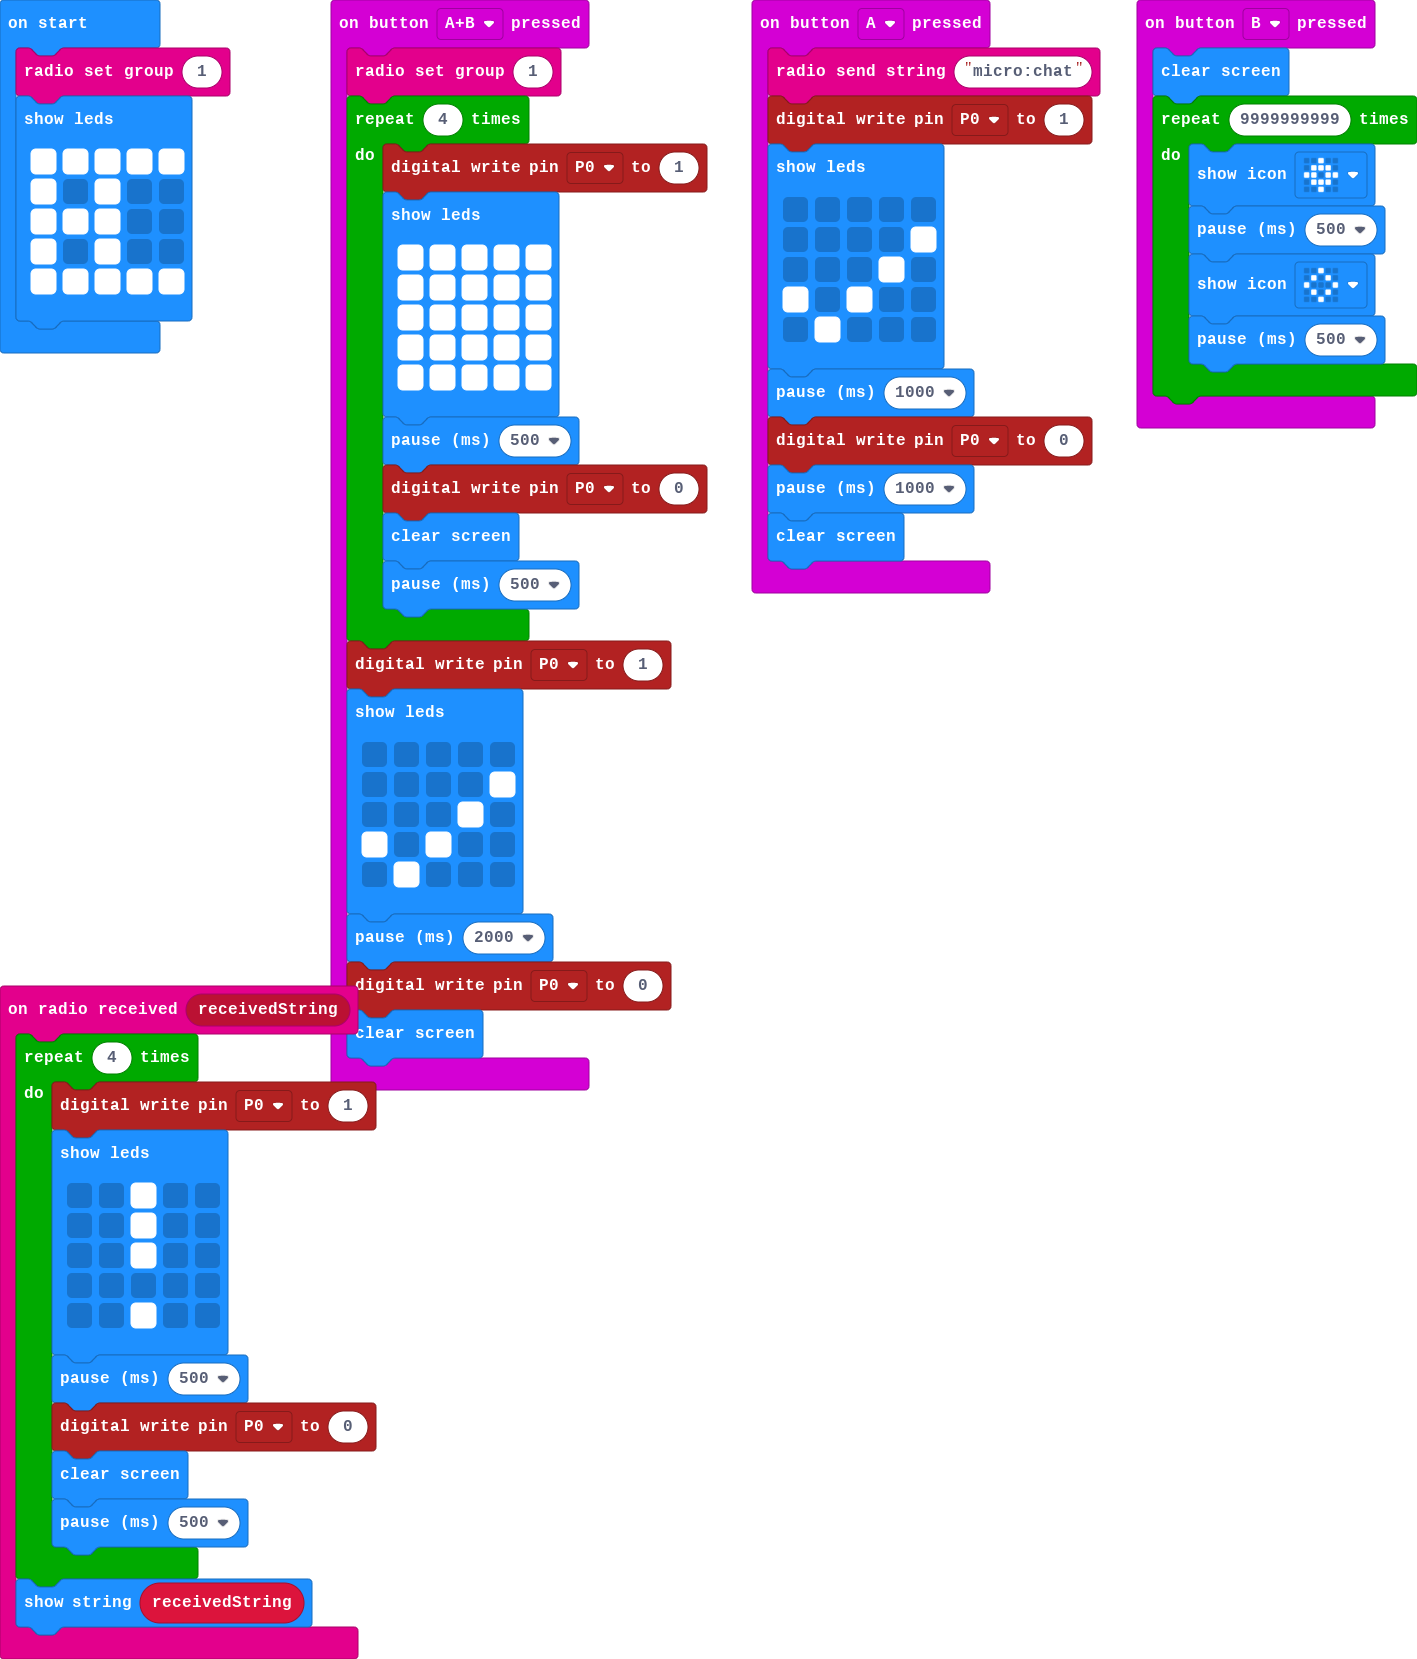
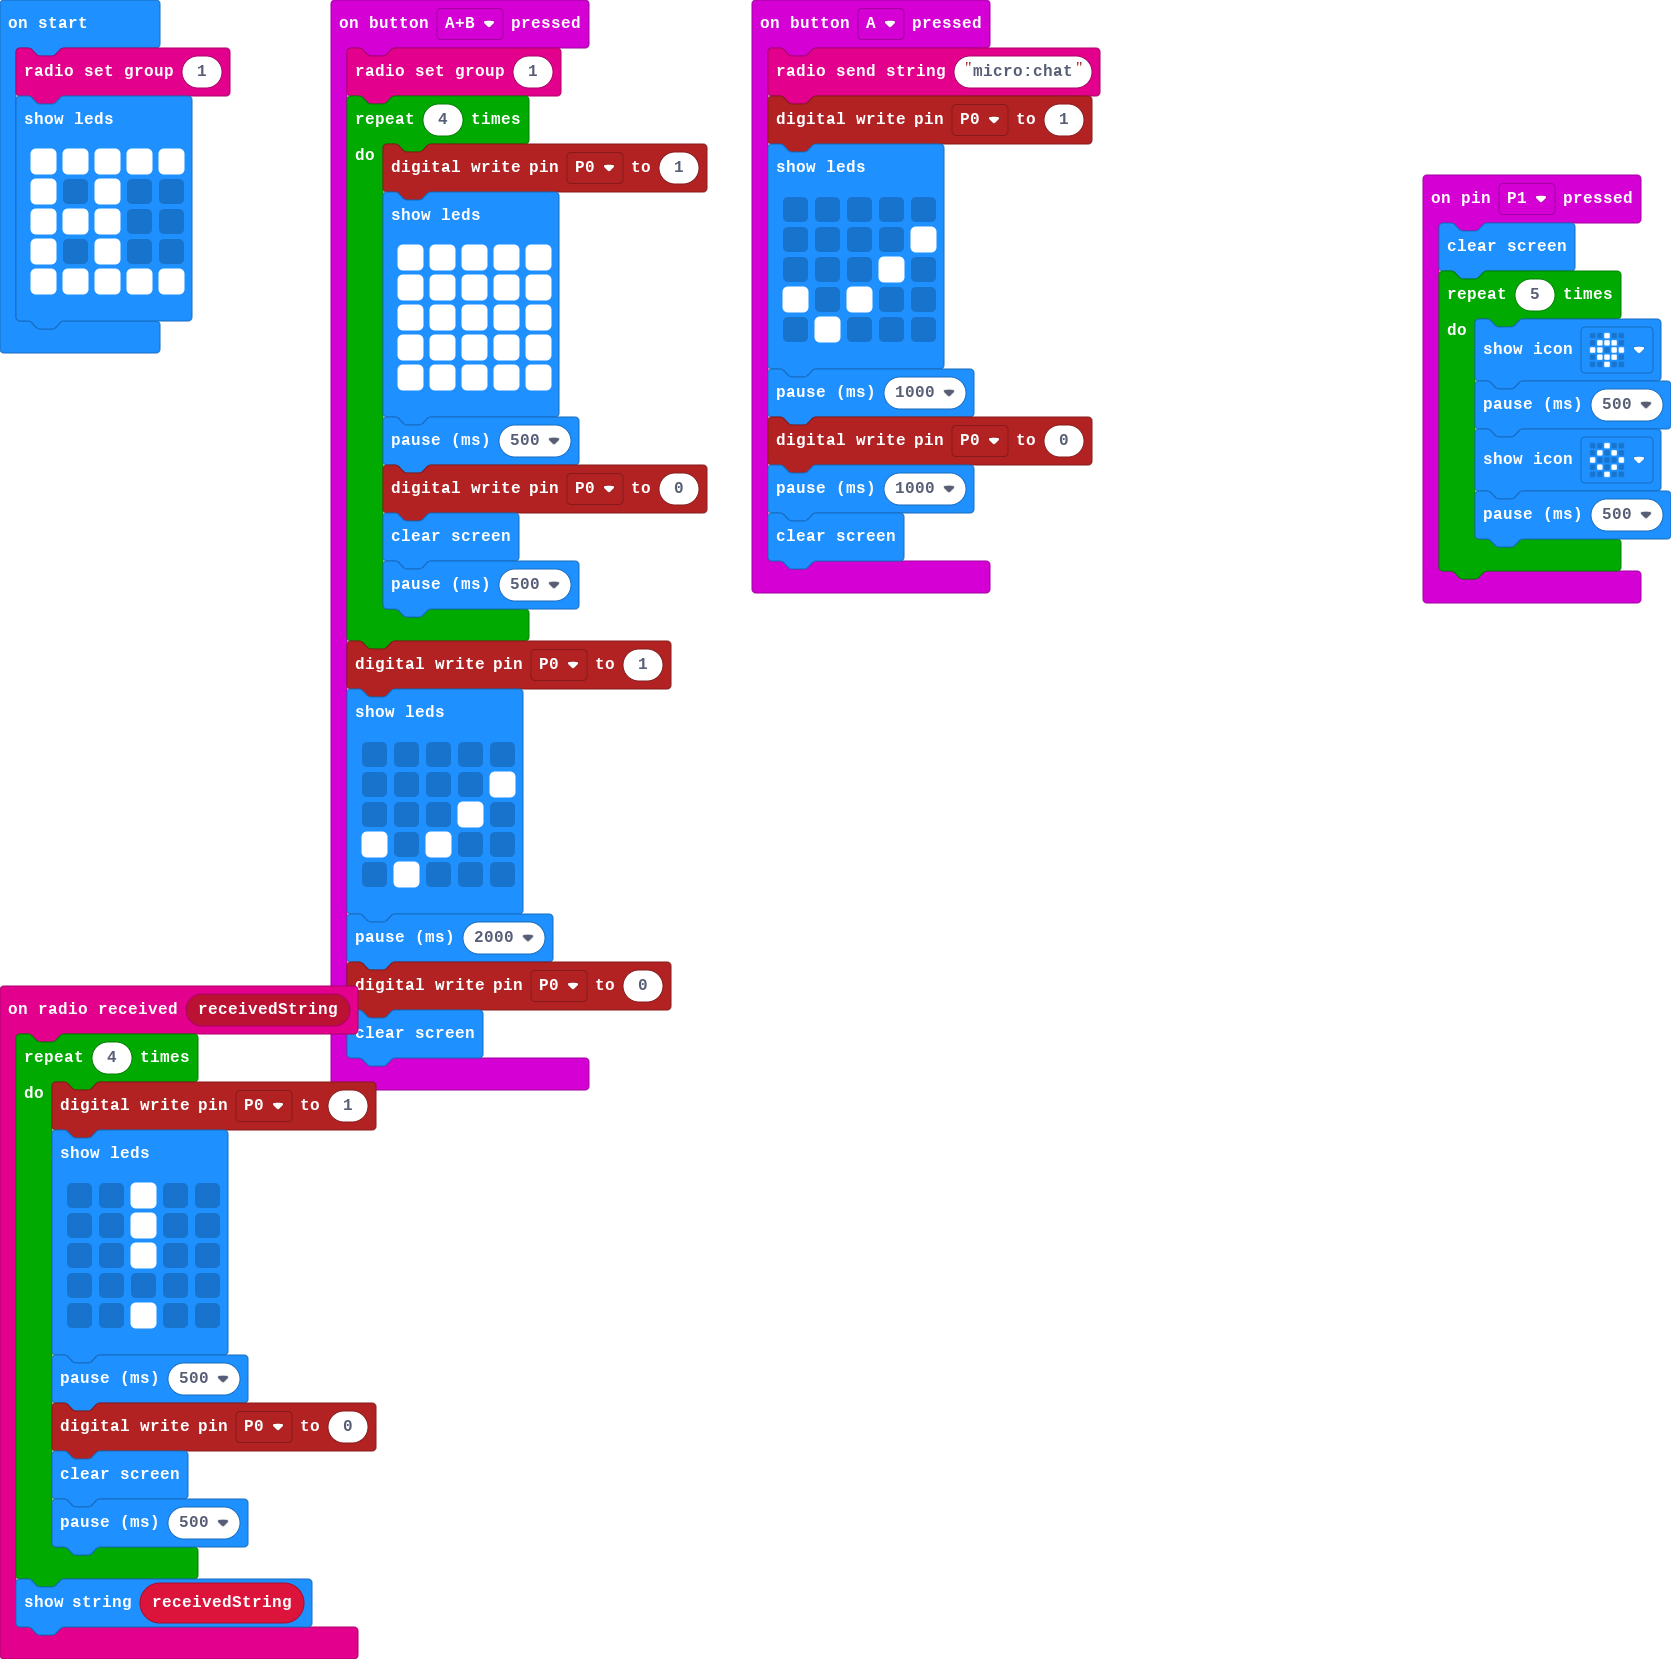
Update main.blocks, main.ts

Changed region(s): [[0.0, 0.0, 1.0, 1.0]]

diff --git a/main.ts b/main.ts
@@ -58,9 +58,9 @@ radio.onReceivedString(function (receivedString) {
     }
     basic.showString(receivedString)
 })
-input.onButtonPressed(Button.B, function () {
+input.onPinPressed(TouchPin.P1, function () {
     basic.clearScreen()
-    for (let index = 0; index < 9999999999; index++) {
+    for (let index = 0; index < 5; index++) {
         basic.showIcon(IconNames.Target)
         basic.pause(500)
         basic.showIcon(IconNames.Diamond)
